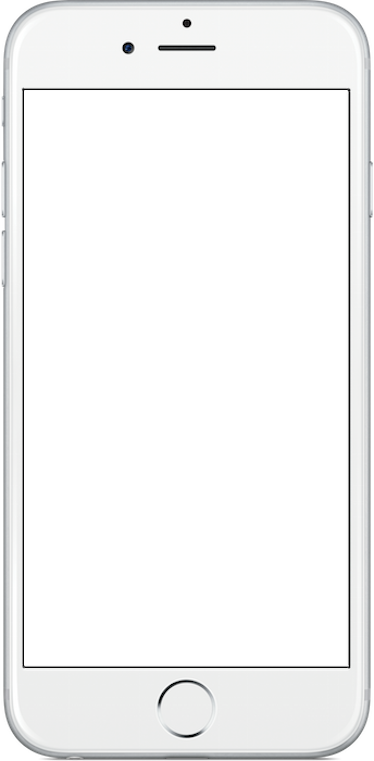
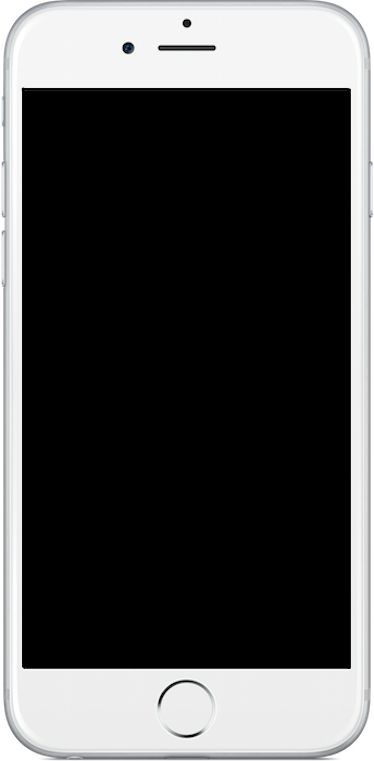
fixed inner border of iphone

diff --git a/client/css/main.css b/client/css/main.css
@@ -34,10 +34,10 @@ body, html {
 }
 
 video {
-	padding: 0px 13px 10px 25px;
+	padding: 0px 10px 10px 25px;
 		position: relative;
 		top: 95px;
-		right: 6px;
+		right: 8px;
 }
 
 @media (min-width: 768px){
